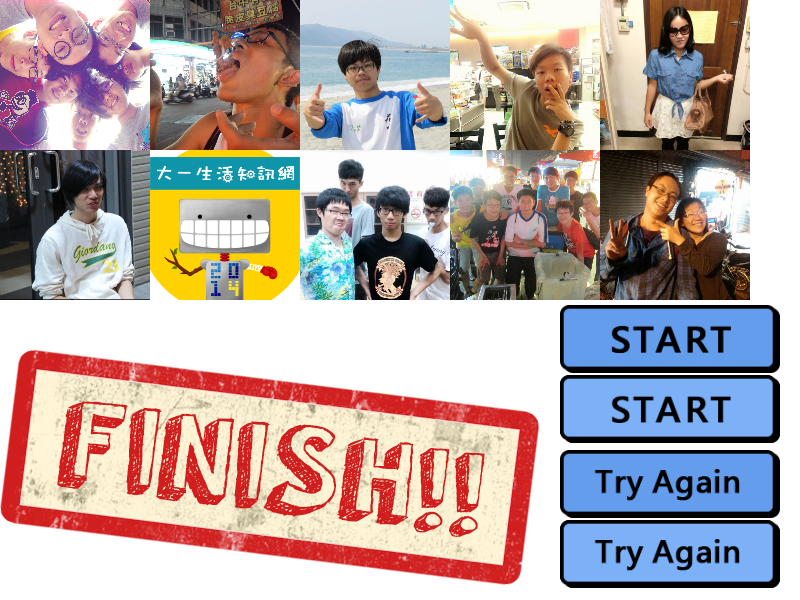
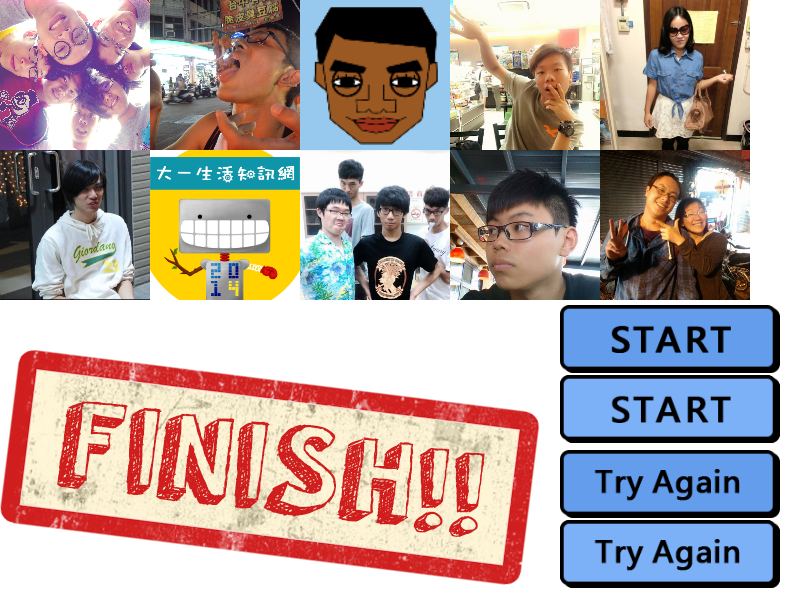
彩蛋圖片改改+看原圖的功能

Changed region(s): [[0.375, 0.0, 0.75, 0.51]]

diff --git a/public/css/game/power.css b/public/css/game/power.css
@@ -27,16 +27,16 @@
 .pictureClick {
 	border: 3px black solid;
 }
-#p0 { background-image: url("../../images/gamePower/allPic.png"); background-position: 0px 0px; }
-#p1 { background-image: url("../../images/gamePower/allPic.png"); background-position: -150px 0px; }
-#p2 { background-image: url("../../images/gamePower/allPic.png"); background-position: -300px 0px; }
-#p3 { background-image: url("../../images/gamePower/allPic.png"); background-position: -450px 0px; }
-#p4 { background-image: url("../../images/gamePower/allPic.png"); background-position: -600px 0px; }
-#p5 { background-image: url("../../images/gamePower/allPic.png"); background-position: 0px -150px; }
-#p6 { background-image: url("../../images/gamePower/allPic.png"); background-position: -150px -150px; }
-#p7 { background-image: url("../../images/gamePower/allPic.png"); background-position: -300px -150px; }
-#p8 { background-image: url("../../images/gamePower/allPic.png"); background-position: -450px -150px; }
-#p9 { background-image: url("../../images/gamePower/allPic.png"); background-position: -600px -150px; }
+#p0 { background-image: url("../../images/gamePower/allPic.png"); background-position: 0px 0px; cursor: pointer; }
+#p1 { background-image: url("../../images/gamePower/allPic.png"); background-position: -150px 0px; cursor: pointer; }
+#p2 { background-image: url("../../images/gamePower/allPic.png"); background-position: -300px 0px; cursor: pointer; }
+#p3 { background-image: url("../../images/gamePower/allPic.png"); background-position: -450px 0px; cursor: pointer; }
+#p4 { background-image: url("../../images/gamePower/allPic.png"); background-position: -600px 0px; cursor: pointer; }
+#p5 { background-image: url("../../images/gamePower/allPic.png"); background-position: 0px -150px; cursor: pointer; }
+#p6 { background-image: url("../../images/gamePower/allPic.png"); background-position: -150px -150px; cursor: pointer; }
+#p7 { background-image: url("../../images/gamePower/allPic.png"); background-position: -300px -150px; cursor: pointer; }
+#p8 { background-image: url("../../images/gamePower/allPic.png"); background-position: -450px -150px; cursor: pointer; }
+#p9 { background-image: url("../../images/gamePower/allPic.png"); background-position: -600px -150px; cursor: pointer; }
 #hstart {
 	cursor: pointer;
 	width: 221px;
@@ -83,11 +83,19 @@
 	font-size: 45px;
 	position: absolute;
 }
+#original {
+	width: 150px;
+	height: 150px;
+	left: 755px;
+	top: 180px;
+	font-size: 45px;
+	position: absolute;
+}
 #hagain {
 	cursor: pointer;
 	width: 221px;
 	height: 68px;
-	top: 280px;
+	top: 370px;
 	left: 725px;
 	background: url("../../images/gamePower/allPic.png") no-repeat;
 	background-position: -560px -450px;

diff --git a/public/js/game/power.js b/public/js/game/power.js
@@ -39,6 +39,16 @@ $(function()
                 {
                     $('#hcover').hide();
                     $('#hstartGame').show();
+                    if(hclick<5)
+                        $('#original').css({
+                            background: 'url("'+burl+'/images/gamePower/allPic.png")',
+                            backgroundPosition: '-'+(hclick*150)+'px 0px'
+                        });
+                    else
+                        $('#original').css({
+                            background: 'url("'+burl+'/images/gamePower/allPic.png")',
+                            backgroundPosition: '-'+((hclick-5)*150)+'px -150px'
+                        });
                     init();
                 }
             });
@@ -48,6 +58,7 @@ $(function()
                 $('#hagain').hide();
                 $('#finish').hide();
                 $('#hstartGame').hide();
+                $('#original').empty();
                 $('#hcover').show();
             });
 

diff --git a/app/views/game/power.blade.php b/app/views/game/power.blade.php
@@ -68,6 +68,7 @@
 			</div>
 		</div>
 		<div id="timing"></div>
+		<div id="original"></div>
 		<div id="hagain"></div>
 		<div id="finish"></div>
 	</div>
